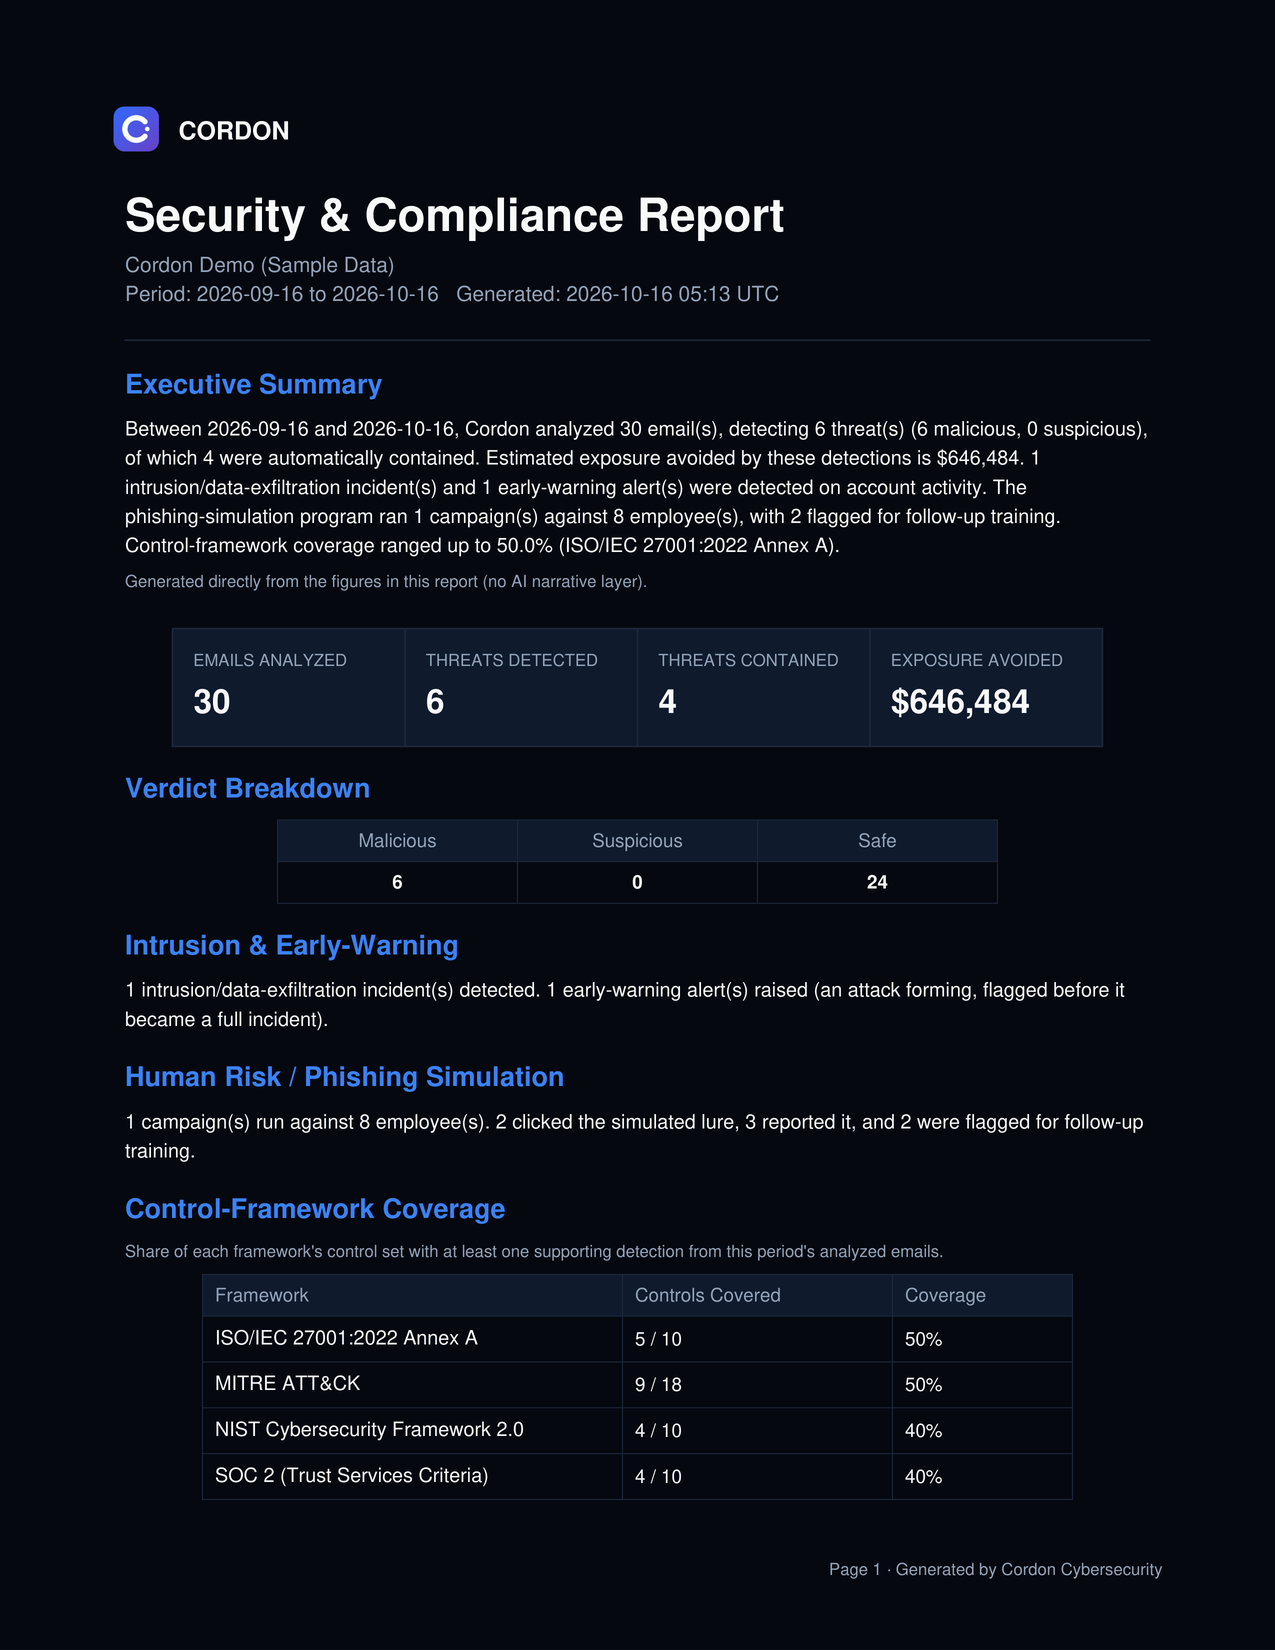
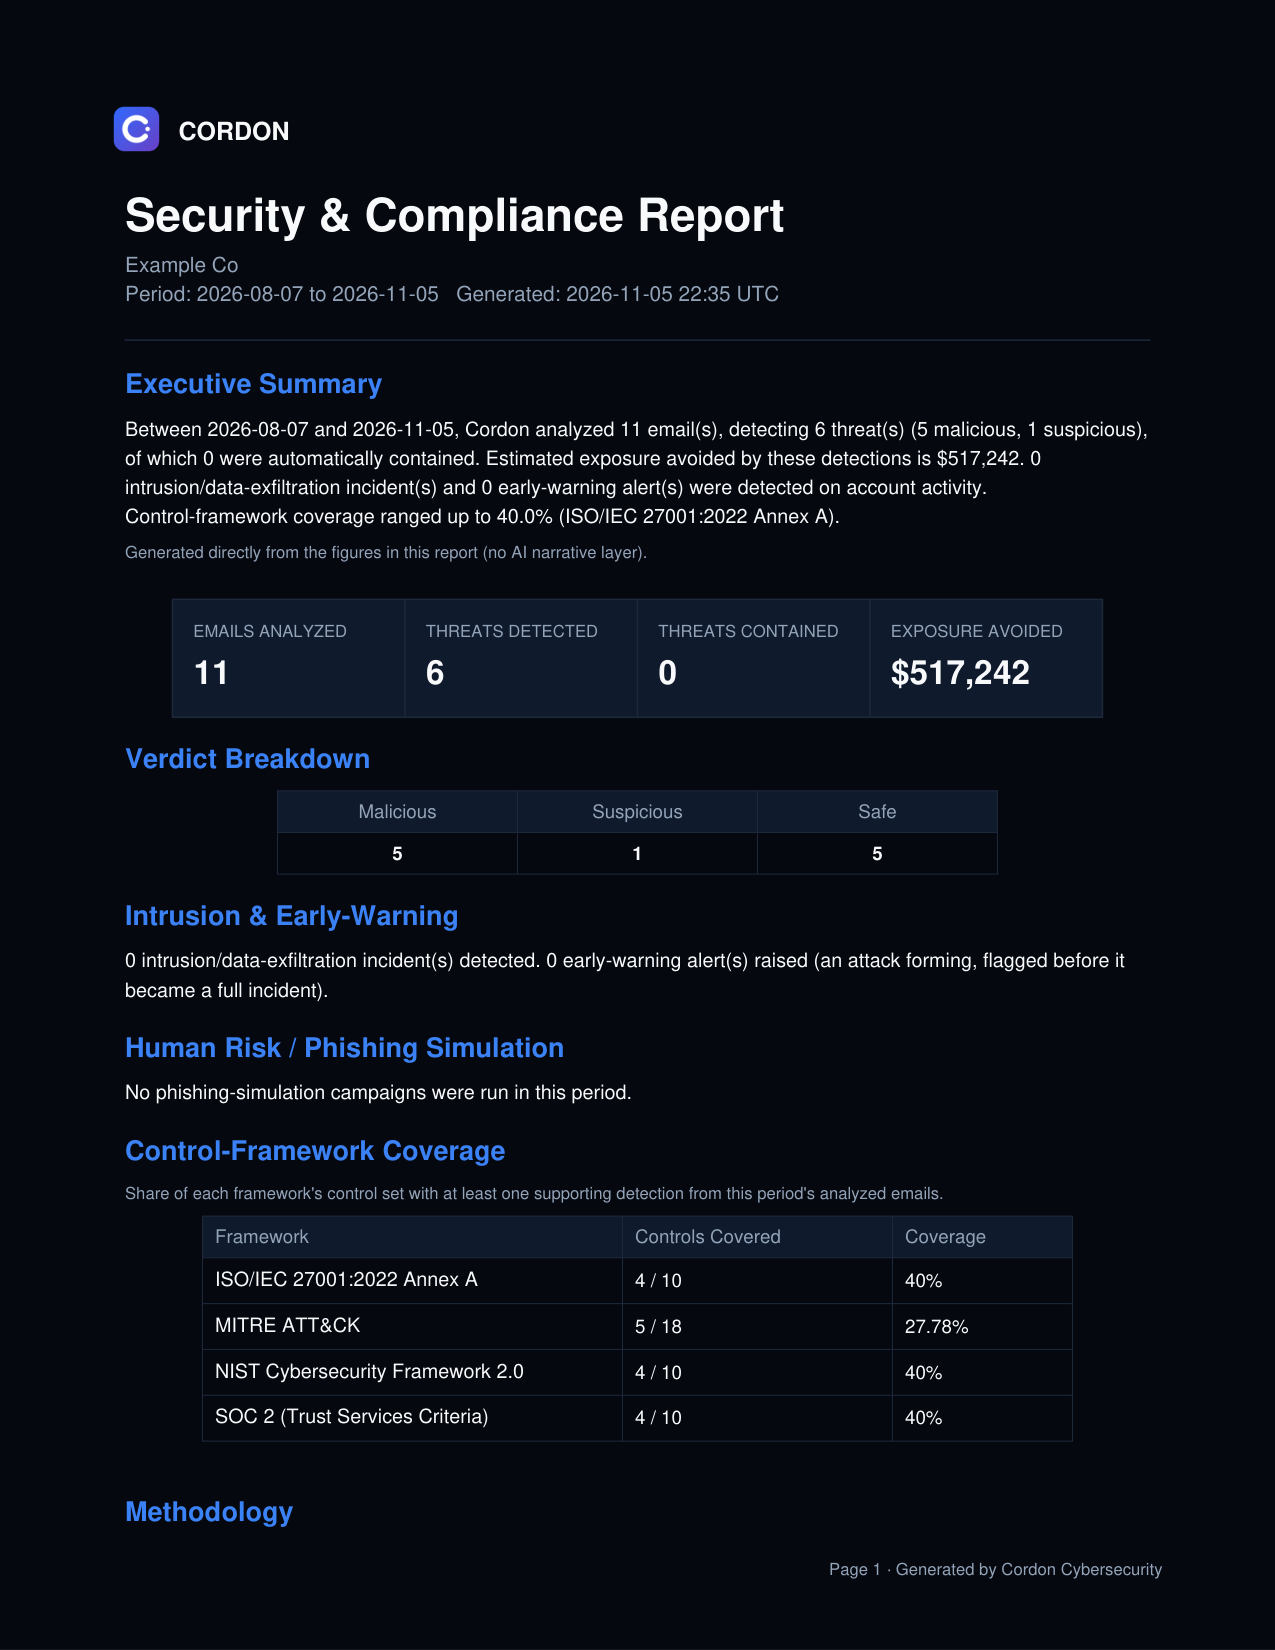
Marketing site: recapture product screenshots from the redesigned app
Replace the pre-redesign light-theme captures with the current dark app, so the tour and
report sample match the product and the site's palette.

- analyze-malicious.png, dashboard.png: 2880x2160 (1440x1080 @2x), i.e. 4:3 to fill the
  tour's aspect-[4/3] frame; the old 16:10 captures letterboxed inside it.
- security-compliance-report-sample.png: page 1 of a real generated report PDF, rendered
  at 150dpi (1275x1650), matching its frame.
- Removed analyze-safe.png and the unused analyzeSafe availability flag (never rendered).

Captured from an isolated local instance (scratch SQLite DB, dev autologin off) seeded only
through the real API with synthetic emails on reserved example domains; placeholder org
"Example Co". Every verdict, score, indicator, mapping, and report figure is genuine Cordon
output. No AI narrative appears: the local Anthropic key returned 401, so the app's
deterministic fallback is what's shown (the report labels it as such).

Changed region(s): [[0.0918, 0.2473, 0.8871, 0.9273], [0.0918, 0.1545, 0.3365, 0.1855], [0.4894, 0.1545, 0.5506, 0.1855]]

diff --git a/site/lib/screenshots.ts b/site/lib/screenshots.ts
@@ -6,7 +6,6 @@ const VIDEO_DIR = path.join(process.cwd(), "public", "video");
 
 export type ScreenshotAvailability = {
   analyzeMalicious: boolean;
-  analyzeSafe: boolean;
   dashboard: boolean;
   securityComplianceReportSample: boolean;
   walkthroughVideo: boolean;
@@ -25,7 +24,6 @@ export function getScreenshotAvailability(): ScreenshotAvailability {
 
   return {
     analyzeMalicious: exists(SCREENSHOTS_DIR, "analyze-malicious.png"),
-    analyzeSafe: exists(SCREENSHOTS_DIR, "analyze-safe.png"),
     dashboard: exists(SCREENSHOTS_DIR, "dashboard.png"),
     securityComplianceReportSample: exists(
       SCREENSHOTS_DIR,
